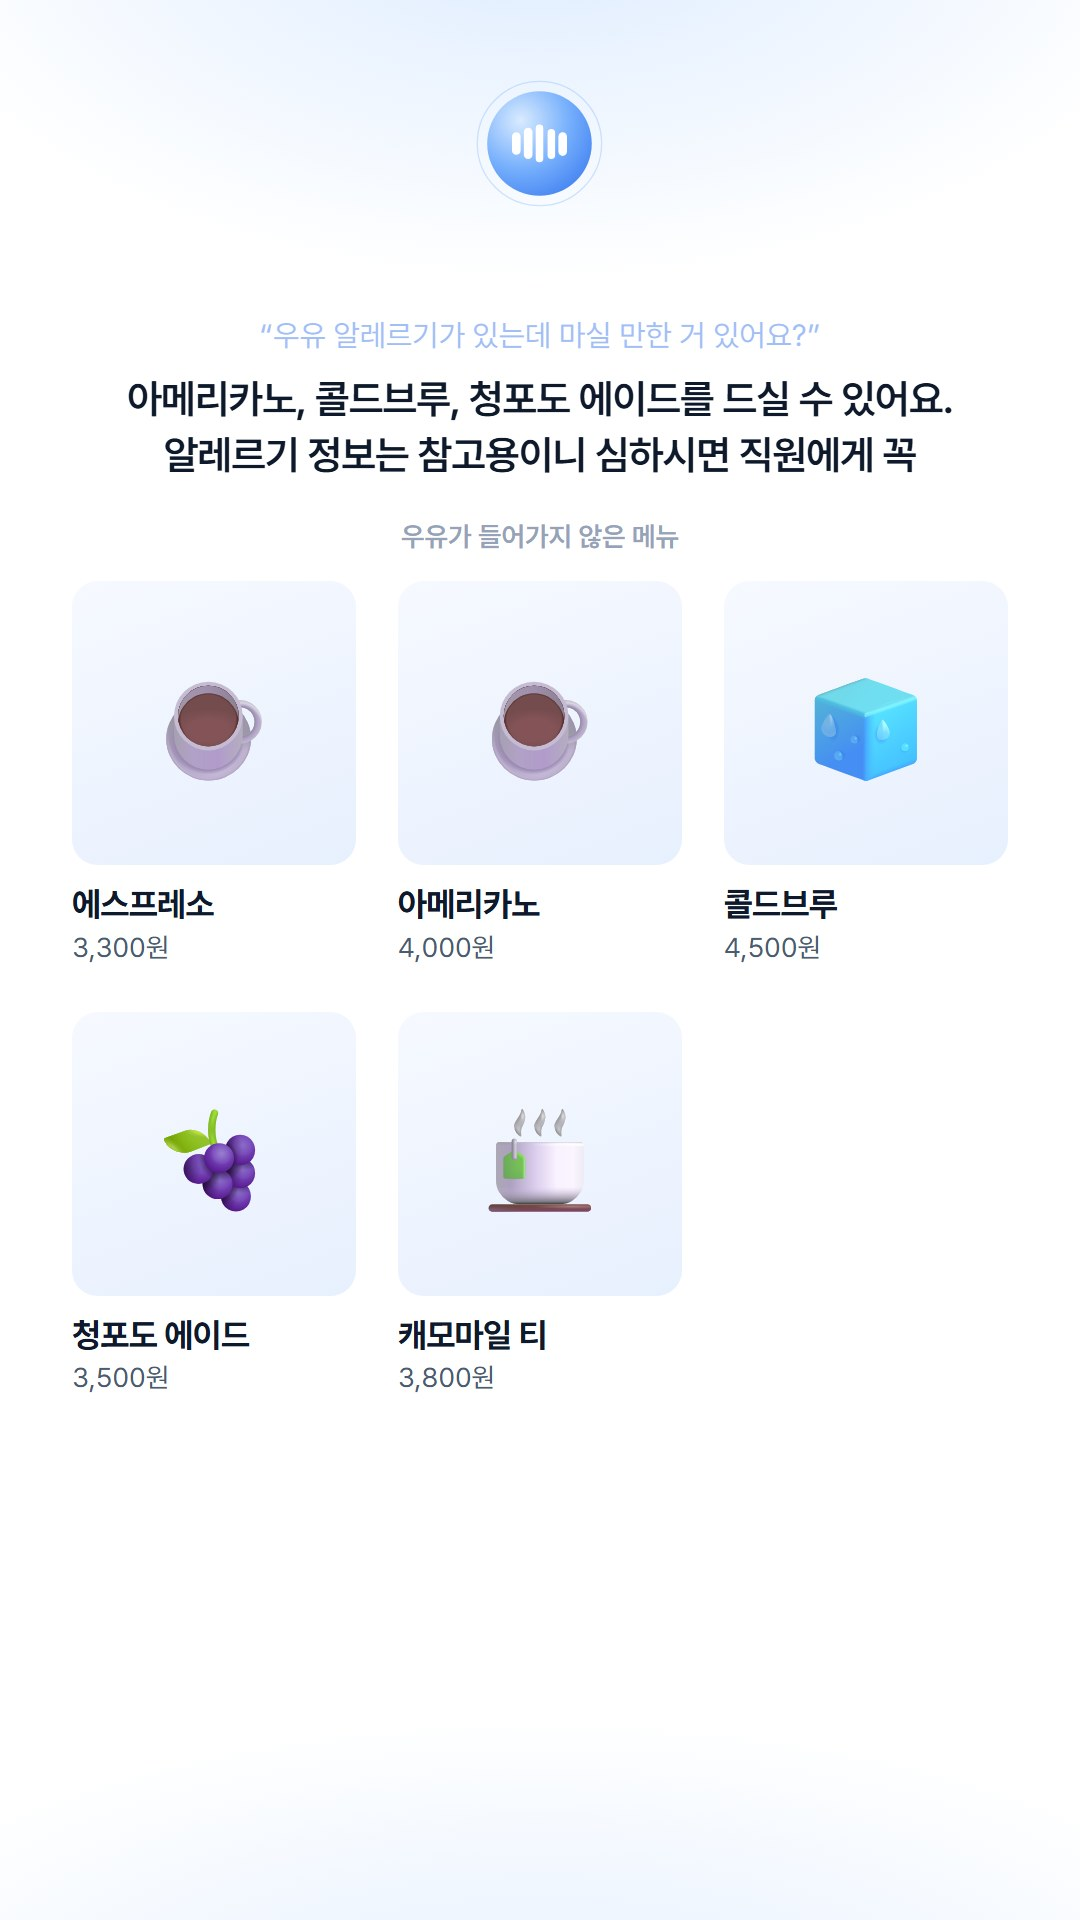
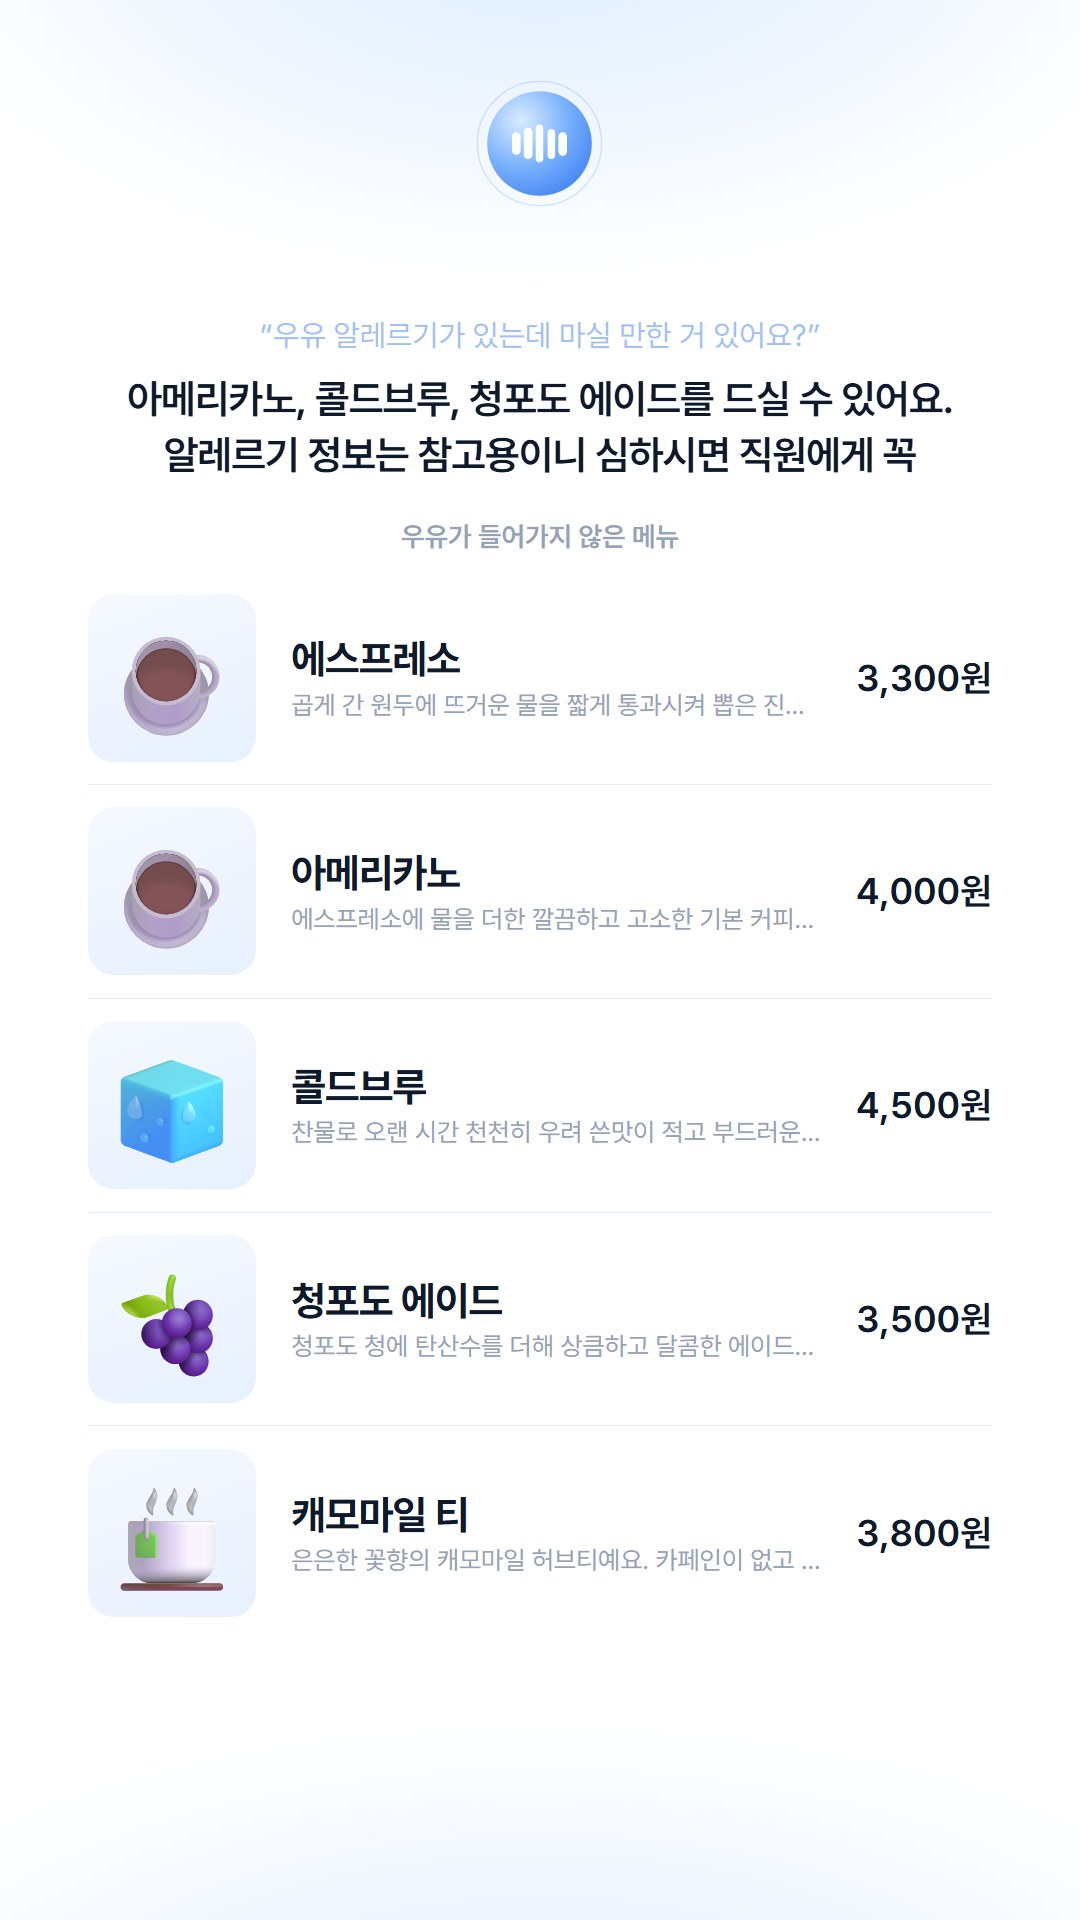
Show menus as a list with large pictures instead of cards

diff --git a/frontend/src/lib/components/MenuGrid.svelte b/frontend/src/lib/components/MenuGrid.svelte
@@ -1,8 +1,9 @@
 <script lang="ts">
-  // The items the assistant chose. When it shows other items, the cards that stay move to their
-  // new places and the others fade: the page never "changes".
+  // The items the assistant chose, as a clean list with large pictures (customers choose by
+  // the picture). When it shows other items, rows that stay move to their new places and the
+  // others fade: the page never "changes".
   import { flip } from 'svelte/animate';
-  import { fade, scale } from 'svelte/transition';
+  import { fade } from 'svelte/transition';
   import { cubicOut } from 'svelte/easing';
   import { won } from '../format';
   import { itemById } from '../menu';
@@ -15,42 +16,40 @@
   const items = $derived(
     view.item_ids.map((id) => itemById(ui.menu, id)).filter((i): i is MenuItem => !!i),
   );
-  const columns = $derived(items.length <= 4 ? 2 : items.length <= 6 ? 3 : 4);
+  // More than five rows only fit when they are a little smaller.
+  const compact = $derived(items.length > 5);
 </script>
 
-<div class="menu" style:--columns={columns}>
+<div class="menu" class:compact>
   {#key view.title}
     <p class="caption" in:fade={{ duration: 400, delay: 200 }}>{view.title}</p>
   {/key}
   {#if items.length === 0}
     <p class="empty" in:fade>해당하는 메뉴가 없어요</p>
   {/if}
-  <div class="grid">
+  <ul>
     {#each items as item, i (item.id)}
-      <article
-        class="card"
+      <li
         animate:flip={{ duration: 550, easing: cubicOut }}
-        in:scale|global={{
-          start: 0.94,
-          opacity: 0,
-          duration: 450,
-          delay: 120 + i * 60,
-          easing: cubicOut,
-        }}
+        in:fade|global={{ duration: 450, delay: 120 + i * 70, easing: cubicOut }}
         out:fade={{ duration: 200 }}
       >
         <div
+          class="picture"
           data-fly-source={item.id}
           in:receive|global={{ key: item.id }}
           out:send|global={{ key: item.id }}
         >
           <ItemImage {item} />
         </div>
-        <span class="name">{item.name}</span>
+        <div class="what">
+          <span class="name">{item.name}</span>
+          <span class="description">{item.description}</span>
+        </div>
         <span class="price">{won(item.price)}</span>
-      </article>
+      </li>
     {/each}
-  </div>
+  </ul>
 </div>
 
 <style>
@@ -58,7 +57,8 @@
     height: 100%;
     display: flex;
     flex-direction: column;
-    gap: 1.6rem;
+    gap: 1rem;
+    padding: 0 1rem;
   }
   .caption {
     min-height: 2.2rem;
@@ -72,29 +72,49 @@
     color: var(--muted);
     text-align: center;
   }
-  .grid {
-    display: grid;
-    grid-template-columns: repeat(var(--columns), minmax(0, 23rem));
-    justify-content: center;
-    gap: 3rem 2.6rem;
-    align-content: start;
+  ul {
+    list-style: none;
+    margin: 0;
+    padding: 0;
   }
-  .card {
+  li {
+    display: grid;
+    grid-template-columns: 10.5rem 1fr auto;
+    align-items: center;
+    gap: 2.2rem;
+    padding: 1.4rem 0;
+    border-bottom: 1px solid var(--line);
+  }
+  li:last-child {
+    border-bottom: none;
+  }
+  .compact li {
+    grid-template-columns: 7.5rem 1fr auto;
+    padding: 1rem 0;
+  }
+  .what {
     display: flex;
     flex-direction: column;
     gap: 0.4rem;
-  }
-  .card > div {
-    margin-bottom: 0.8rem;
+    min-width: 0;
   }
   .name {
-    font-size: 2.1rem;
+    font-size: 2.5rem;
     font-weight: 700;
     letter-spacing: -0.02em;
-    word-break: keep-all;
+  }
+  .description {
+    font-size: 1.6rem;
+    color: var(--muted);
+    white-space: nowrap;
+    overflow: hidden;
+    text-overflow: ellipsis;
   }
   .price {
-    font-size: 1.7rem;
-    color: var(--text-2);
+    font-size: 2.3rem;
+    font-weight: 600;
+  }
+  .compact .name {
+    font-size: 2.1rem;
   }
 </style>

diff --git a/docs/architecture.md b/docs/architecture.md
@@ -178,10 +178,11 @@ order at the bottom, and in between what the assistant chose appears and disappe
 - **Conversation**: under the orb, what the customer said (blue, in quotes) and what the
   assistant says; older words fade out at the top.
 - **Menus**: the items the assistant chose (3–5 recommendations, a category, or a filtered set),
-  no heading except a small caption for a filter or a category. When the assistant shows other
-  items, the cards that stay move to their new places and the others fade (`flip`).
+  no heading except a small caption for a filter or a category. A clean list: a large picture
+  (customers choose by it), the name with a short description, the price. When the assistant shows
+  other items, the rows that stay move to their new places and the others fade (`flip`).
 - **Kinds of menu** (`show_categories`): four tiles, for "다른 메뉴도 보여 주세요".
-- **Item**: the card's image grows into a large image (`crossfade`); name, price, description,
+- **Item**: the row's picture grows into a large image (`crossfade`); name, price, description,
   ingredients and facts; only the required choices, which fill in blue when chosen. An added item
   flies into the order bar and the total counts up.
 - **Order bar**: a quiet bar at the bottom while ordering (thumbnails, count, total). The review,
